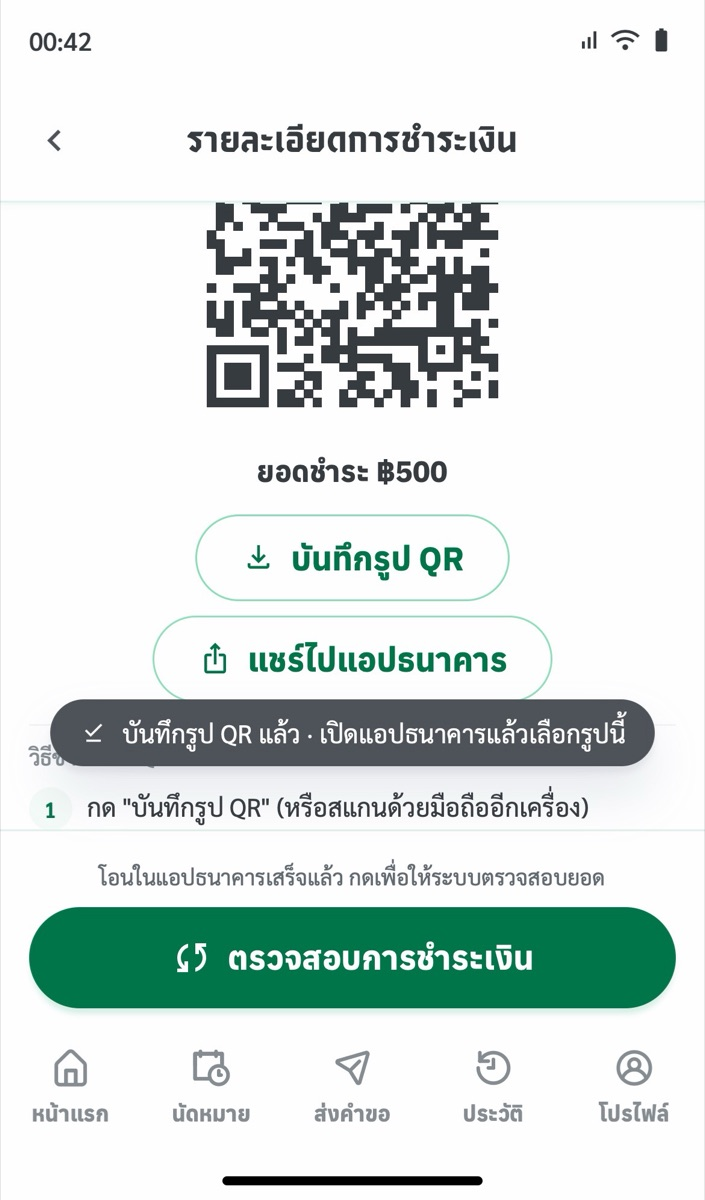
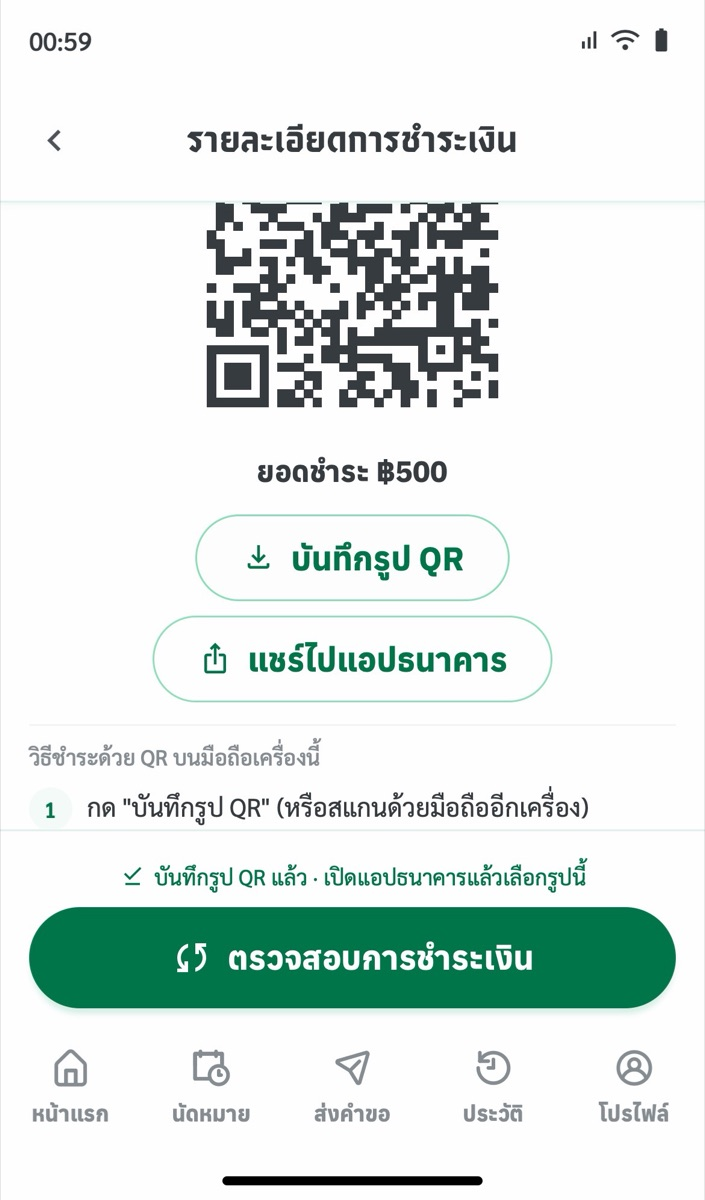
Mobile App · ปรับตามผลทดสอบ: ผลตรวจบัตรเครดิต · ธีมมืด + ภาพ (21 พ.ย. 69)

Changed region(s): [[0.0624, 0.555, 0.9362, 0.6475], [0.1248, 0.7092, 0.8738, 0.74], [0.0936, 0.0308, 0.1248, 0.0617]]

diff --git a/mobile-ux-fixes.html b/mobile-ux-fixes.html
@@ -87,9 +87,11 @@
   </tbody></table></div>
   <blockquote>ตรวจในแอปจริง (build ของ branch ที่แก้) เดินครบ: เปิดหน้าชำระ → แตะ QR → เลือกวิธีรับยา → จอเลื่อนไป QR → บันทึกรูป (ได้ไฟล์ PNG จริง) → ตรวจสอบการชำระเงิน → ชำระเงินสำเร็จ · จอ 390 · 768 · 1024 · 1440 ไม่มี scroll แนวนอน (768 ขึ้นไปแอปแสดงแบบแบ่ง 2 ฝั่ง / กรอบมือถือ)
 ตรวจเพิ่ม 21 พ.ย. 69: แผ่นชำระเงินที่เปิดจากหน้าแรก (การ์ด "ชำระเงิน" › "ชำระ") เดินครบถึงชำระสำเร็จ — เจอเนื้อหาโผล่ลอดใต้ปุ่มติดล่าง 16 px แก้แล้ว · หน้า /m/pharmacy/payment "เพิ่มรายละเอียด" · "เปลี่ยนรายละเอียด" · ปิดแผ่น ทำงานเหมือนเดิม · แตะ QR แล้วปิดแผ่นวิธีรับยา ไม่เด้งไปหน้า QR เอง · บันทึกรูป QR ได้ไฟล์ PNG ทั้ง Chrome และ WebKit (เอนจินเดียวกับ Safari)
-เครื่องจำลอง iPhone 13 (WebKit) และ Pixel 7: เดินครบถึงชำระสำเร็จ · ไม่มี error · ไม่มี scroll แนวนอน · ปุ่มสูง ≥ 44 px · ปุ่มแชร์ขึ้น (เครื่องรองรับแชร์ไฟล์) · บันทึกรูปได้ไฟล์ · เจอแถบแจ้ง "บันทึกรูป QR แล้ว" ทับปุ่ม "ตรวจสอบการชำระเงิน" → ย้ายแถบขึ้นเหนือปุ่มแล้ว
+เครื่องจำลอง iPhone 13 (WebKit) และ Pixel 7: เดินครบถึงชำระสำเร็จ · ไม่มี error · ไม่มี scroll แนวนอน · ปุ่มสูง ≥ 44 px · ปุ่มแชร์ขึ้น (เครื่องรองรับแชร์ไฟล์) · บันทึกรูปได้ไฟล์ · เจอแถบแจ้ง "บันทึกรูป QR แล้ว" ลอยทับปุ่ม "ตรวจสอบการชำระเงิน" → ย้ายข้อความไปอยู่ในบรรทัดเหนือปุ่ม ไม่ลอยแล้ว
+บัตรเครดิต (บิล ฿1,250) ที่ 390 · 768 · 1024 · 1440: จอเลื่อนไปฟอร์มบัตร · ช่องกรอก 16 px · ชำระสำเร็จ
+ธีมมืด: ขั้นตอนครบ · พบของเดิม 2 จุดที่ยังไม่แก้ (รอตัดสินใจ) — QR กลับสีเป็นจุดขาวบนพื้นดำ (ชิ้นกลาง FakeQR ใช้ 5 หน้า) · กล่องแจ้งสีฟ้ายังเป็นสีสว่าง (ธีมมืดมือถือยังไม่มี token สี alert)
 ยังไม่ได้ตรวจ: แผ่นแชร์ของระบบ และการบันทึกรูปลงอัลบั้มบนมือถือเครื่องจริง — เครื่องจำลองเปิดแผ่นแชร์จริงไม่ได้</blockquote>
-  <p class="gh">ตรวจเพิ่ม</p><div class="shots phone"><figure><img src="mobile-usability/fix-2026-11-21/shots/after-8-home-sheet.jpg?v=20261121b" alt="แผ่นจากหน้าแรก · ปุ่มติดล่างปิดสนิทหลังแก้" loading="lazy"><figcaption>แผ่นจากหน้าแรก · ปุ่มติดล่างปิดสนิทหลังแก้</figcaption></figure><figure><img src="mobile-usability/fix-2026-11-21/shots/after-9-pharmacy-page.jpg?v=20261121b" alt="/m/pharmacy/payment · ส่วนรับยาทำงานเหมือนเดิม" loading="lazy"><figcaption>/m/pharmacy/payment · ส่วนรับยาทำงานเหมือนเดิม</figcaption></figure><figure><img src="mobile-usability/fix-2026-11-21/shots/after-10-iphone-toast.jpg?v=20261121c" alt="iPhone 13 · แถบแจ้งอยู่เหนือปุ่มตรวจสอบ" loading="lazy"><figcaption>iPhone 13 · แถบแจ้งอยู่เหนือปุ่มตรวจสอบ</figcaption></figure></div>
+  <p class="gh">ตรวจเพิ่ม</p><div class="shots phone"><figure><img src="mobile-usability/fix-2026-11-21/shots/after-8-home-sheet.jpg?v=20261121b" alt="แผ่นจากหน้าแรก · ปุ่มติดล่างปิดสนิทหลังแก้" loading="lazy"><figcaption>แผ่นจากหน้าแรก · ปุ่มติดล่างปิดสนิทหลังแก้</figcaption></figure><figure><img src="mobile-usability/fix-2026-11-21/shots/after-9-pharmacy-page.jpg?v=20261121b" alt="/m/pharmacy/payment · ส่วนรับยาทำงานเหมือนเดิม" loading="lazy"><figcaption>/m/pharmacy/payment · ส่วนรับยาทำงานเหมือนเดิม</figcaption></figure><figure><img src="mobile-usability/fix-2026-11-21/shots/after-10-iphone-toast.jpg?v=20261121d" alt="iPhone 13 · หน้า QR" loading="lazy"><figcaption>iPhone 13 · หน้า QR</figcaption></figure><figure><img src="mobile-usability/fix-2026-11-21/shots/after-11-dark-qr.jpg?v=20261121d" alt="ธีมมืด · ข้อความบันทึกรูปอยู่เหนือปุ่ม · QR กลับสี (ของเดิม)" loading="lazy"><figcaption>ธีมมืด · ข้อความบันทึกรูปอยู่เหนือปุ่ม · QR กลับสี (ของเดิม)</figcaption></figure><figure><img src="mobile-usability/fix-2026-11-21/shots/after-12-dark-channels.jpg?v=20261121d" alt="ธีมมืด · กล่องแจ้งยังเป็นสีสว่าง (ของเดิม)" loading="lazy"><figcaption>ธีมมืด · กล่องแจ้งยังเป็นสีสว่าง (ของเดิม)</figcaption></figure></div>
   </div>
   <div class="card" id="pay-1"><div class="head"><div><h2>1.1 · จอแรกไม่มีปุ่มจ่าย และช่องทางชำระเงินเป็นสีเทากดไม่ได้</h2><p class="sum">ผลทดสอบ U62 · U81 · U100 · U119 (ความรุนแรง 3/4 · H1 สถานะระบบ)</p></div><span class="chip nw c-green">แก้แล้ว · ตรวจในแอปจริง</span></div>
 <dl class="kv"><dt>ระบบที่แก้</dt><dd>Mobile App · หน้า "รายละเอียดการชำระเงิน"</dd><dt>Kiosk (น้องดูแล)</dt><dd>—</dd></dl>
